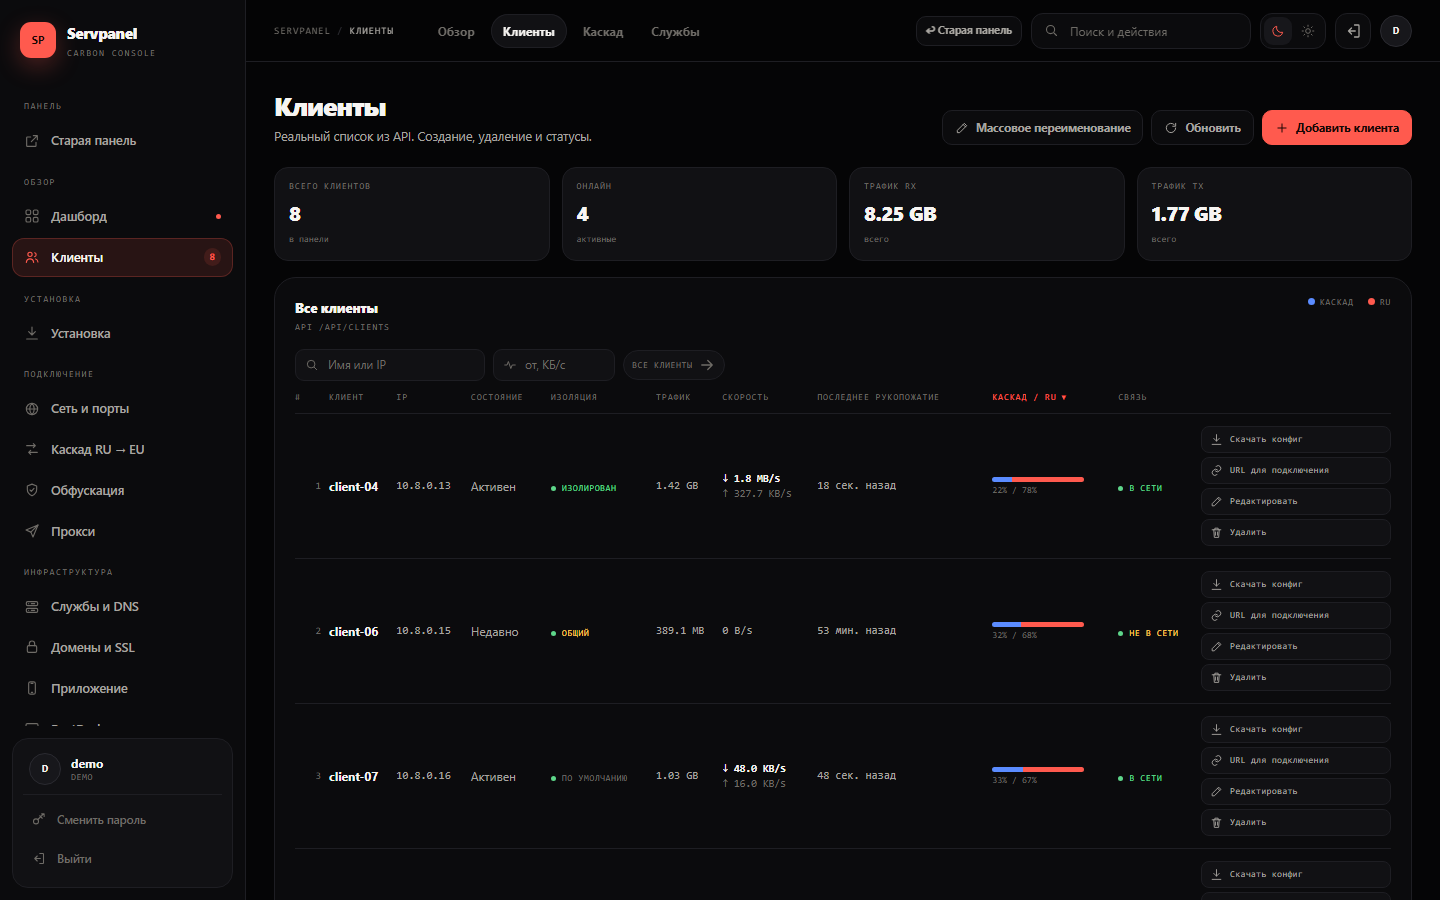
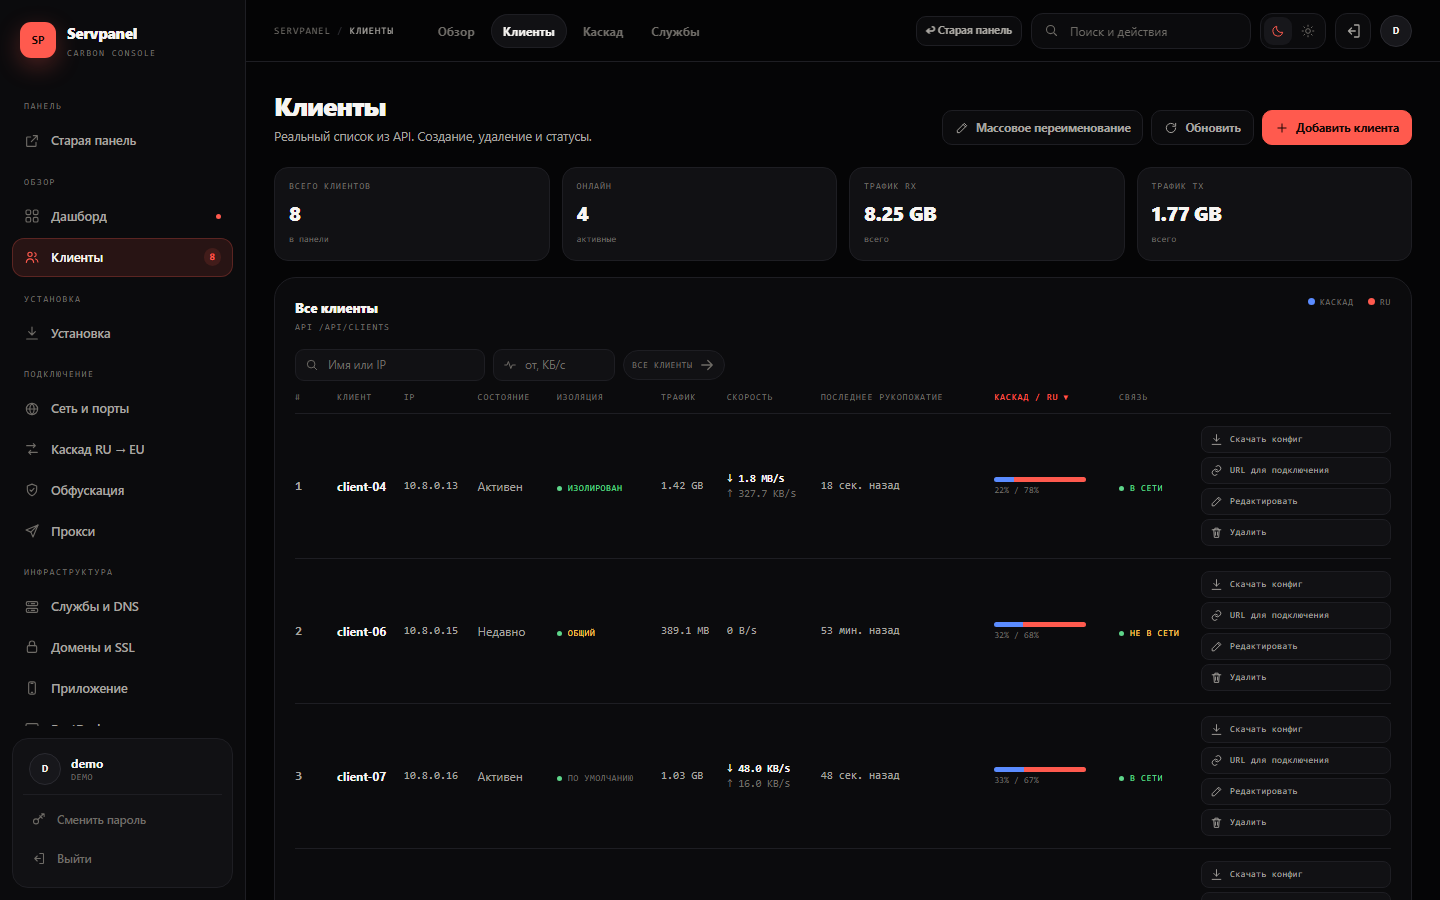
Docs: larger left-aligned client numbers

diff --git a/README.md b/README.md
@@ -40,7 +40,7 @@ KPI, CPU/RAM, uptime, график и распределение трафика 
 
 <img src="docs/screenshots/clients.png" alt="Клиенты Servpanel Carbon: сортировка по доле RU-трафика" width="900">
 
-Клик по заголовку сортирует таблицу, повторный клик меняет направление. Колонка **«Каскад / RU»** сортирует по доле RU-трафика. В колонке **«Скорость»** — текущие ↓ Rx / ↑ Tx, рядом фильтр **«от, КБ/с»**.
+Клик по заголовку сортирует таблицу, повторный клик меняет направление. Слева — порядковый номер конфига, колонка **«Каскад / RU»** сортирует по доле RU-трафика. В колонке **«Скорость»** — текущие ↓ Rx / ↑ Tx, рядом фильтр **«от, КБ/с»**.
 
 ### Клиент: лимиты и точечная изоляция
 

diff --git a/DEMO.md b/DEMO.md
@@ -20,7 +20,7 @@ KPI, CPU/RAM, uptime, график и распределение трафика 
 
 <img src="docs/screenshots/clients.png" alt="Клиенты: сортировка по доле RU-трафика" width="900">
 
-Сортировка работает по всем колонкам. Колонка **«Каскад / RU»** сортирует по доле RU-трафика, повторный клик меняет направление. В колонке **«Скорость»** — ↓ Rx / ↑ Tx, рядом фильтр «от, КБ/с».
+Сортировка работает по всем колонкам. Слева — порядковый номер конфига, колонка **«Каскад / RU»** сортирует по доле RU-трафика, повторный клик меняет направление. В колонке **«Скорость»** — ↓ Rx / ↑ Tx, рядом фильтр «от, КБ/с».
 
 ### Изоляция клиента AWG
 
